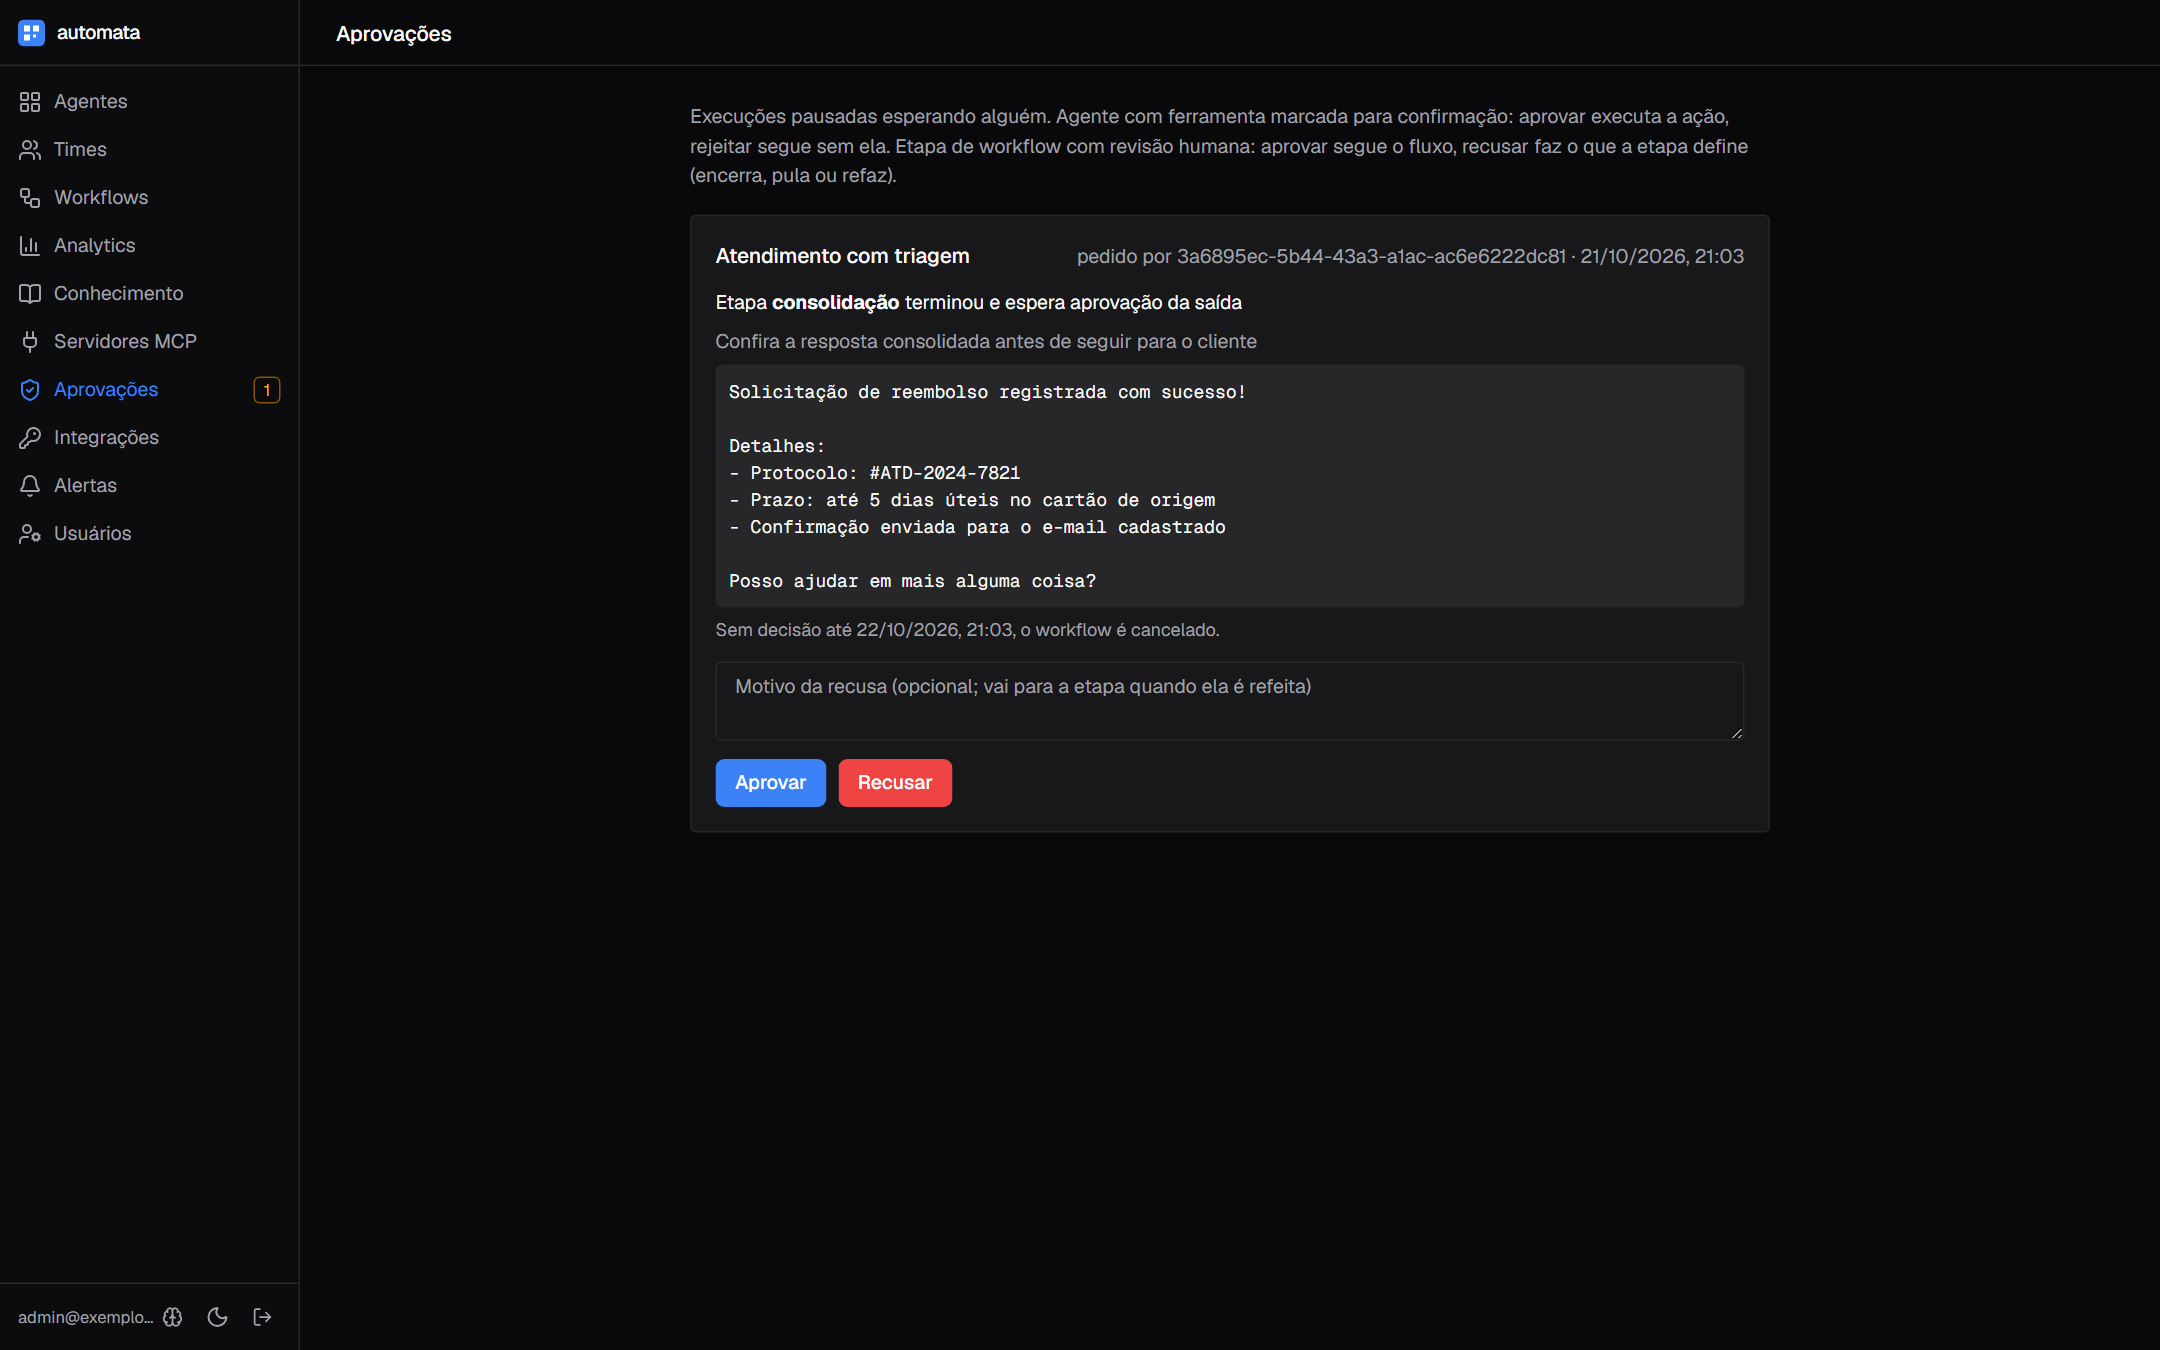
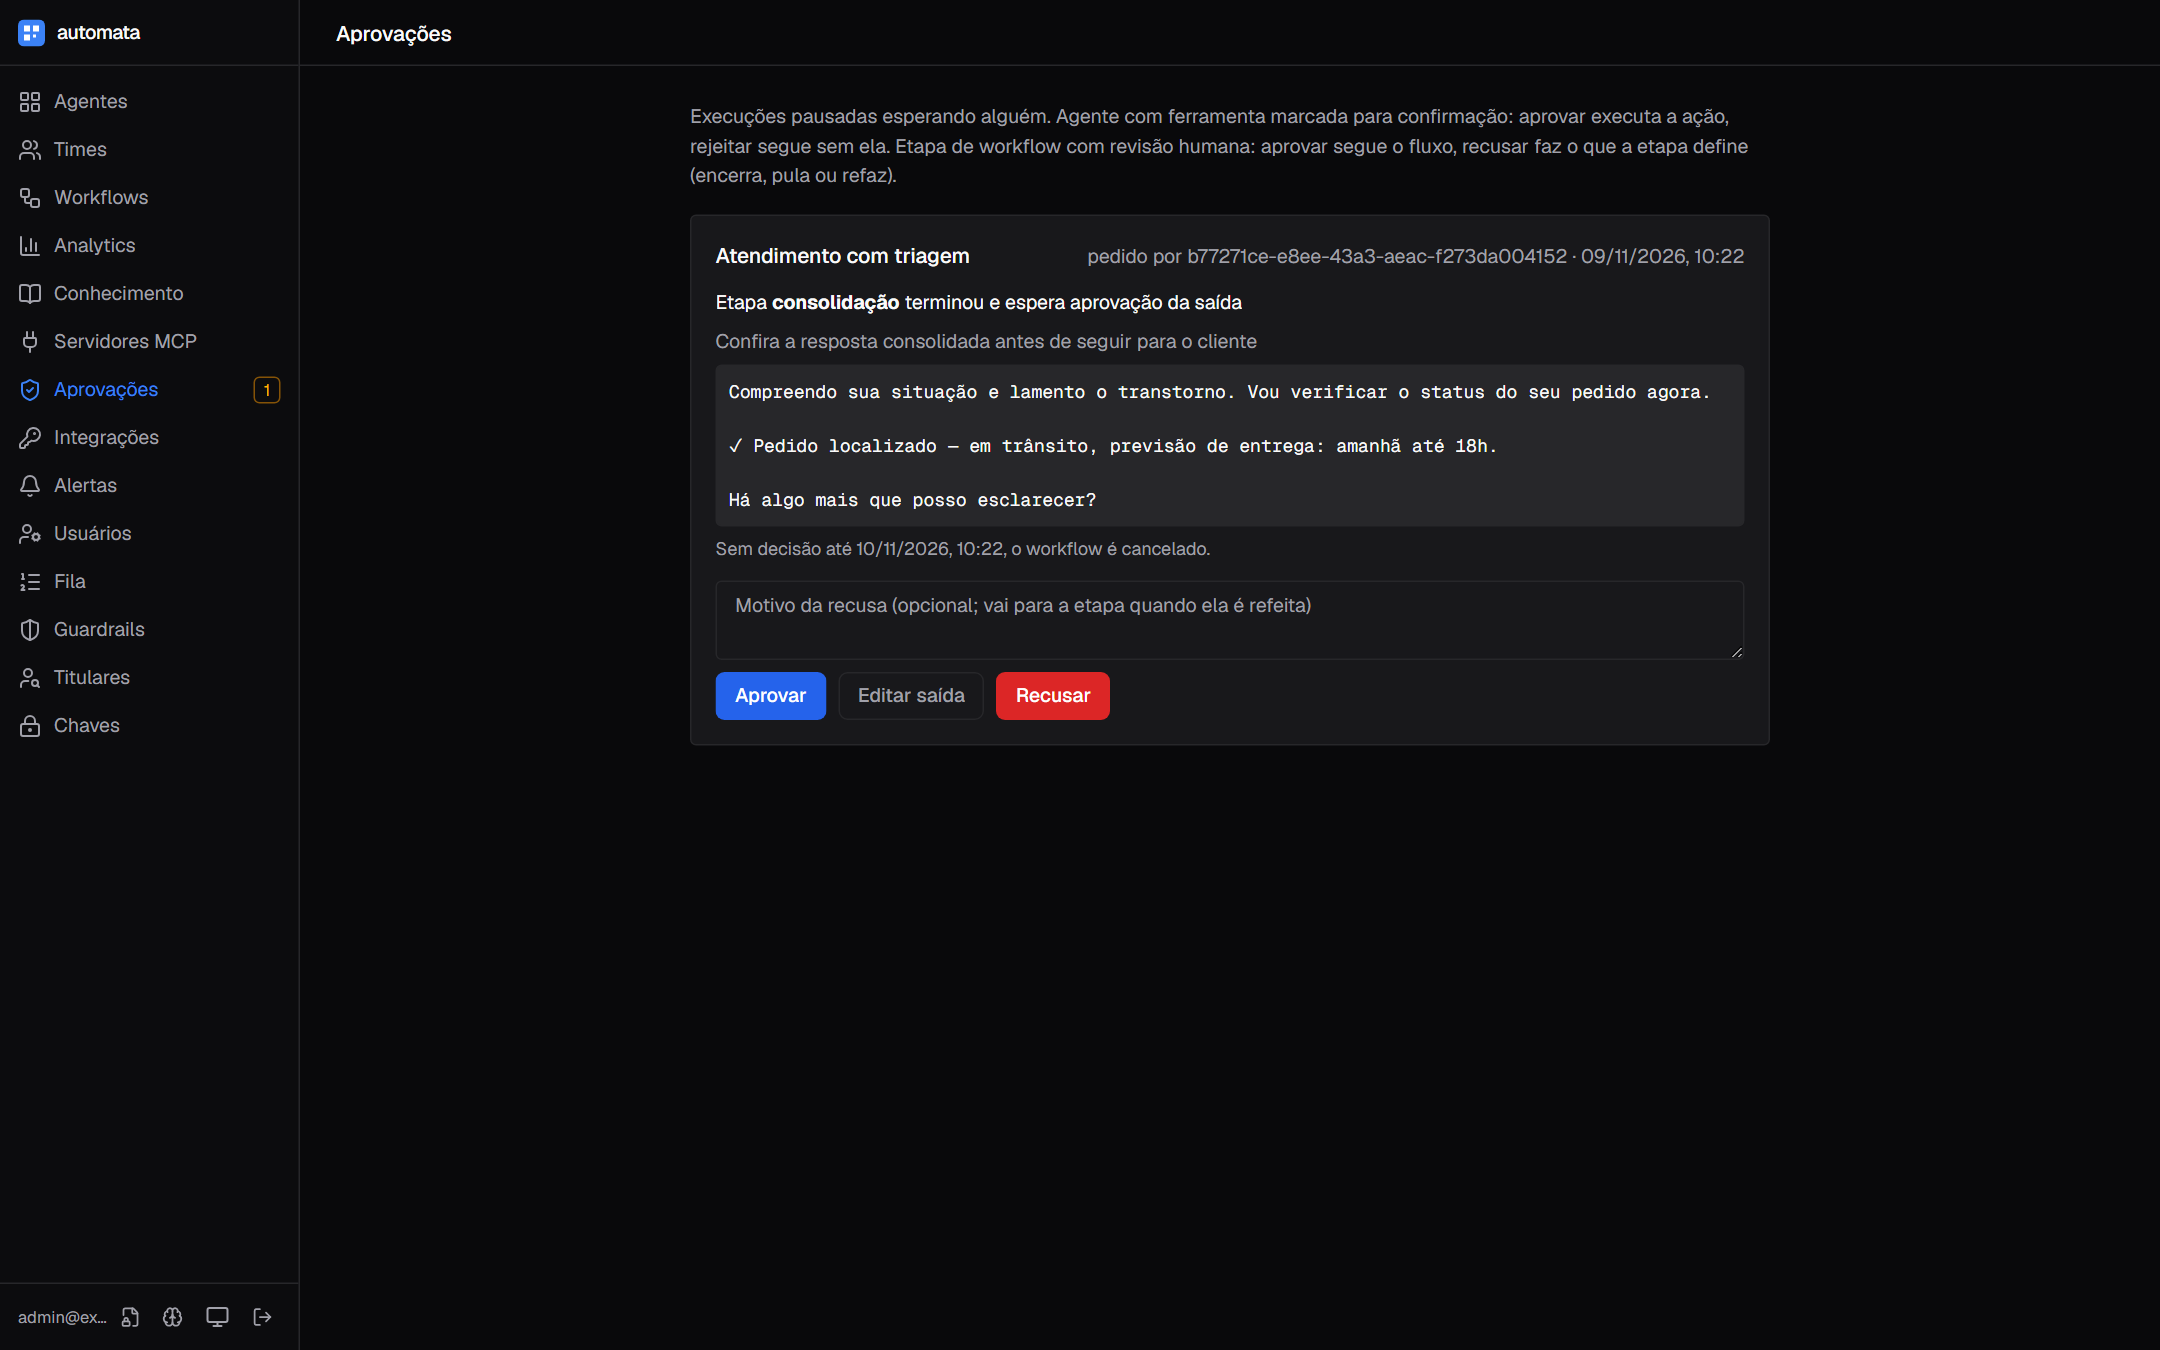
docs: readme com os prints das telas atuais

diff --git a/README.md b/README.md
@@ -7,7 +7,7 @@ Plataforma para operar agentes de IA em produção. Com ela, quem não programa 
 
 O runtime é o [Agno](https://github.com/agno-agi/agno) (AgentOS). O Automata é a camada de produto em volta: configuração versionada em banco próprio, validação antes de publicar, rastreamento de cada execução, segurança e painel.
 
-![Workflow com etapas em paralelo e condição](docs/img/workflow.png)
+![Workflow com roteador por assunto e revisão humana na consolidação](docs/img/workflow.png)
 
 | | |
 |---|---|
@@ -95,7 +95,7 @@ O modo teste lê o stream do AgentOS e mostra cada etapa ao vivo: quem respondeu
 
 Uma etapa pode **pausar para revisão humana**: confirmar antes de rodar ou aprovar a saída antes da próxima etapa. A pendência aparece na página Aprovações e no próprio modo teste, com a saída a conferir. Recusar encerra o fluxo, pula a etapa ou a refaz com o motivo da recusa no contexto, e um prazo opcional cancela o que ficou parado.
 
-<p align="center"><img src="docs/img/workflow-teste.png" alt="Modo teste do workflow pausado na revisão humana da etapa de reembolso" width="420"></p>
+<p align="center"><img src="docs/img/workflow-teste.png" alt="Modo teste do workflow pausado na revisão humana da consolidação, depois do roteador mandar o reembolso ao financeiro" width="420"></p>
 
 ![Página Aprovações com a saída de uma etapa esperando revisão](docs/img/aprovacoes.png)
 
@@ -109,7 +109,7 @@ Cada base escolhe como buscar: a busca simples, diversidade (MMR, para manuais l
 
 A base também acompanha a origem. Um **conector** lê um repositório do GitHub, um bucket S3 ou do Cloud Storage, uma pasta do SharePoint ou do Google Drive, com a credencial cifrada. Padrões de nome escolhem os arquivos (`politicas/**/*.md`, fora `**/rascunhos/**`), e um webhook assinado deixa a própria origem disparar a sincronização a cada push. A sincronização compara pela versão de cada arquivo: arquivo novo entra, alterado é reindexado sem duplicar trecho, removido sai da base, e o que não mudou não é baixado nem cobra embedding. A sincronização pode rodar num intervalo, e uma URL pode ser baixada de novo todo dia ou toda semana, reindexando só se a página mudou.
 
-![Conector do GitHub numa base de conhecimento](docs/img/conectores.png)
+![Conector do GitHub com filtro por nome e webhook da origem](docs/img/conectores.png)
 
 ### Conversas longas
 
@@ -139,6 +139,8 @@ Regras de entrada e saída versionadas junto com o agente. O bloqueio acontece a
 Execuções barradas aparecem como **bloqueadas**, com a regra, separadas de falha no analytics.
 
 <p align="center"><img src="docs/img/guardrails.png" alt="Guardrails de um agente" width="560"></p>
+
+![Piso de guardrails da instância](docs/img/piso.png)
 
 ### Testes por agente antes de publicar
 

diff --git a/docs/roadmap.md b/docs/roadmap.md
@@ -1452,7 +1452,7 @@ Nenhuma tela vaza em 375 px, e todas têm `h1`, rótulo em todo campo e nome em 
 - [x] **Baixa.** Os gatilhos de dica de p50 e p95 e a trilha "Times" e "Workflows" no topo da página têm menos de 24 px de altura.
 - [x] **Baixa.** A página do time pede o piso de guardrails pelo rascunho e, sem rascunho, recebe 404 antes de pedir pela versão publicada.
 - [x] **Baixa.** Achado ao regerar os prints: o GitHub sem token responde 403 depois de 60 chamadas por hora, e a sincronização mostrava "credencial recusada" em cada arquivo.
-- [ ] **Baixa.** Os prints do README são da Fase 33. Não mostram a Fila, os Guardrails da instância, os Titulares, o roteador nem os conectores novos.
+- [x] **Baixa.** Os prints do README são da Fase 33. Não mostram a Fila, os Guardrails da instância, os Titulares, o roteador nem os conectores novos.
 
 ### PRs
 
@@ -1465,7 +1465,7 @@ Nenhuma tela vaza em 375 px, e todas têm `h1`, rótulo em todo campo e nome em 
 - [x] `fix(security)`: template da etapa numa passada só e sugestões com os padrões próprios de dado pessoal
 - [x] `fix(web)`: alvos de 24 px nas dicas e na trilha e piso lido sem 404
 - [x] `fix(api)`: limite de chamadas da origem distinto de credencial recusada
-- [ ] `docs`: README com os prints das telas atuais
+- [x] `docs`: README com os prints das telas atuais
 
 **Critério de aceite da fase:**
 
